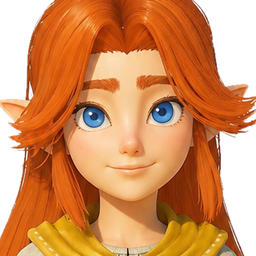
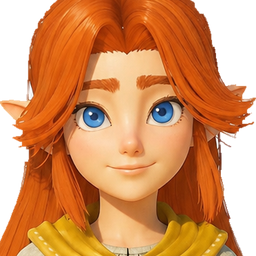
Clean up Malon cutout (hair fringe, gap between feet, eye highlights)
Claude-Session: https://claude.ai/code/session_01TYYWG7vpugJJjzU7kuqrn3

diff --git a/scripts/cutout_malon.py b/scripts/cutout_malon.py
@@ -1,0 +1,109 @@
+#!/usr/bin/env python3
+"""Remove the baked-in checkerboard background from Malon's source art.
+
+Usage: python3 scripts/cutout_malon.py <original.png>  -> writes art-src/malon.png
+"""
+import sys
+from collections import deque
+from PIL import Image, ImageFilter
+
+im = Image.open(sys.argv[1]).convert("RGBA")
+w, h = im.size
+px = im.load()
+FACE = (300, 130, 600, 380)  # never treat anything here as background (eye highlights)
+
+
+def cand(p):
+    r, g, b, _ = p
+    return min(r, g, b) >= 222 and max(r, g, b) - min(r, g, b) <= 16
+
+
+remove = bytearray(w * h)
+seen = bytearray(w * h)
+for sy in range(h):
+    for sx in range(w):
+        i = sy * w + sx
+        if seen[i] or not cand(px[sx, sy]):
+            continue
+        comp, q, border = [], deque([(sx, sy)]), False
+        seen[i] = 1
+        while q:
+            x, y = q.popleft()
+            comp.append((x, y))
+            border |= x in (0, w - 1) or y in (0, h - 1)
+            for dx, dy in ((1, 0), (-1, 0), (0, 1), (0, -1)):
+                nx, ny = x + dx, y + dy
+                if 0 <= nx < w and 0 <= ny < h and not seen[ny * w + nx] and cand(px[nx, ny]):
+                    seen[ny * w + nx] = 1
+                    q.append((nx, ny))
+        if not border:
+            cx = sum(x for x, _ in comp) / len(comp)
+            cy = sum(y for _, y in comp) / len(comp)
+            if FACE[0] <= cx <= FACE[2] and FACE[1] <= cy <= FACE[3]:
+                continue
+            vals = [min(px[x, y][:3]) for x, y in comp]
+            lo = sum(v <= 249 for v in vals)
+            hi = sum(v >= 251 for v in vals)
+            if not (len(comp) >= 12 and lo > len(comp) * 0.15 and hi > len(comp) * 0.15):
+                continue  # not checkerboard
+        for x, y in comp:
+            remove[y * w + x] = 1
+
+
+def orange(x, y):
+    r, g, b, _ = px[x, y]
+    return not remove[y * w + x] and r > 170 and r - b > 90 and g < 175
+
+
+# Peel pale pixels off the outline: anywhere for neutral greys, and next to hair for warm pales.
+for _ in range(4):
+    peel = []
+    for y in range(2, h - 2):
+        for x in range(2, w - 2):
+            i = y * w + x
+            if remove[i] or not (remove[i - 1] or remove[i + 1] or remove[i - w] or remove[i + w]):
+                continue
+            if FACE[0] <= x <= FACE[2] and FACE[1] <= y <= FACE[3]:
+                continue
+            r, g, b, _ = px[x, y]
+            lo, spread = min(r, g, b), max(r, g, b) - min(r, g, b)
+            if lo >= 185 and spread <= 40:
+                peel.append(i)
+            elif lo >= 130 and spread <= 90 and sum(orange(x + dx, y + dy) for dy in (-2, -1, 0, 1, 2) for dx in (-2, -1, 0, 1, 2)) >= 3:
+                peel.append(i)
+    for i in peel:
+        remove[i] = 1
+
+mask = Image.new("L", (w, h), 255)
+mp = mask.load()
+for i in range(w * h):
+    if remove[i]:
+        mp[i % w, i // w] = 0
+# Pull the outline in a little (except around the face) so no pale anti-aliasing survives.
+eroded = mask.filter(ImageFilter.MinFilter(5))
+eroded.paste(mask.crop(FACE), FACE[:2])
+mask = eroded
+
+# Defringe: recolour edge pixels from fully-inside neighbours.
+mp = mask.load()
+src = im.copy().load()
+for y in range(3, h - 3):
+    for x in range(3, w - 3):
+        if mp[x, y] == 0:
+            continue
+        edge = any(mp[x + dx, y + dy] == 0 for dx, dy in ((2, 0), (-2, 0), (0, 2), (0, -2), (1, 1), (-1, -1), (1, -1), (-1, 1)))
+        if not edge:
+            continue
+        acc, n = [0, 0, 0], 0
+        for dy in range(-3, 4):
+            for dx in range(-3, 4):
+                if mp[x + dx, y + dy] == 255 and not any(mp[x + dx + ex, y + dy + ey] == 0 for ex, ey in ((1, 0), (-1, 0), (0, 1), (0, -1))):
+                    r, g, b, _ = src[x + dx, y + dy]
+                    acc[0] += r; acc[1] += g; acc[2] += b; n += 1
+        if n:
+            px[x, y] = (acc[0] // n, acc[1] // n, acc[2] // n, 255)
+
+mask = mask.filter(ImageFilter.GaussianBlur(0.6))
+im.putalpha(mask)
+im.save("art-src/malon.png")
+print("done")
